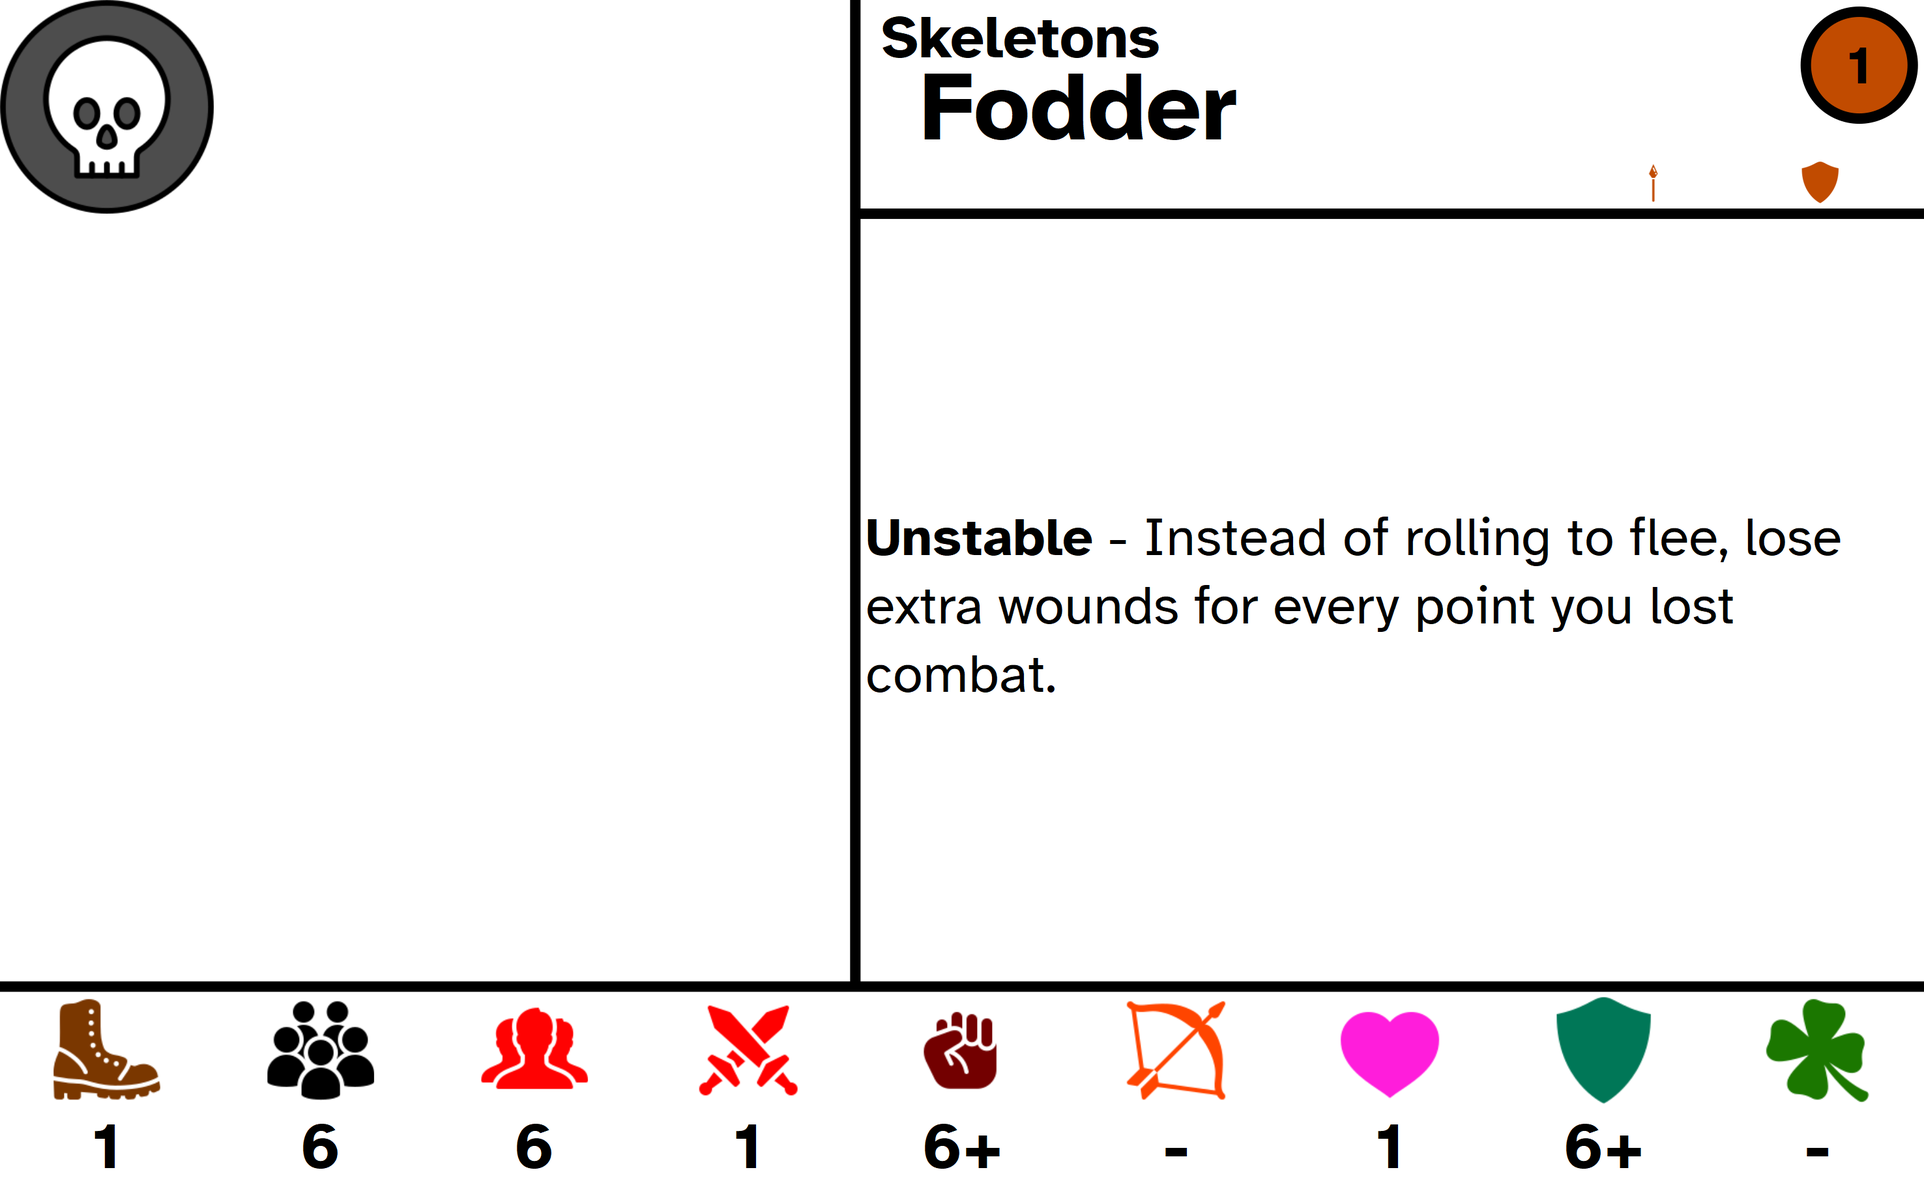
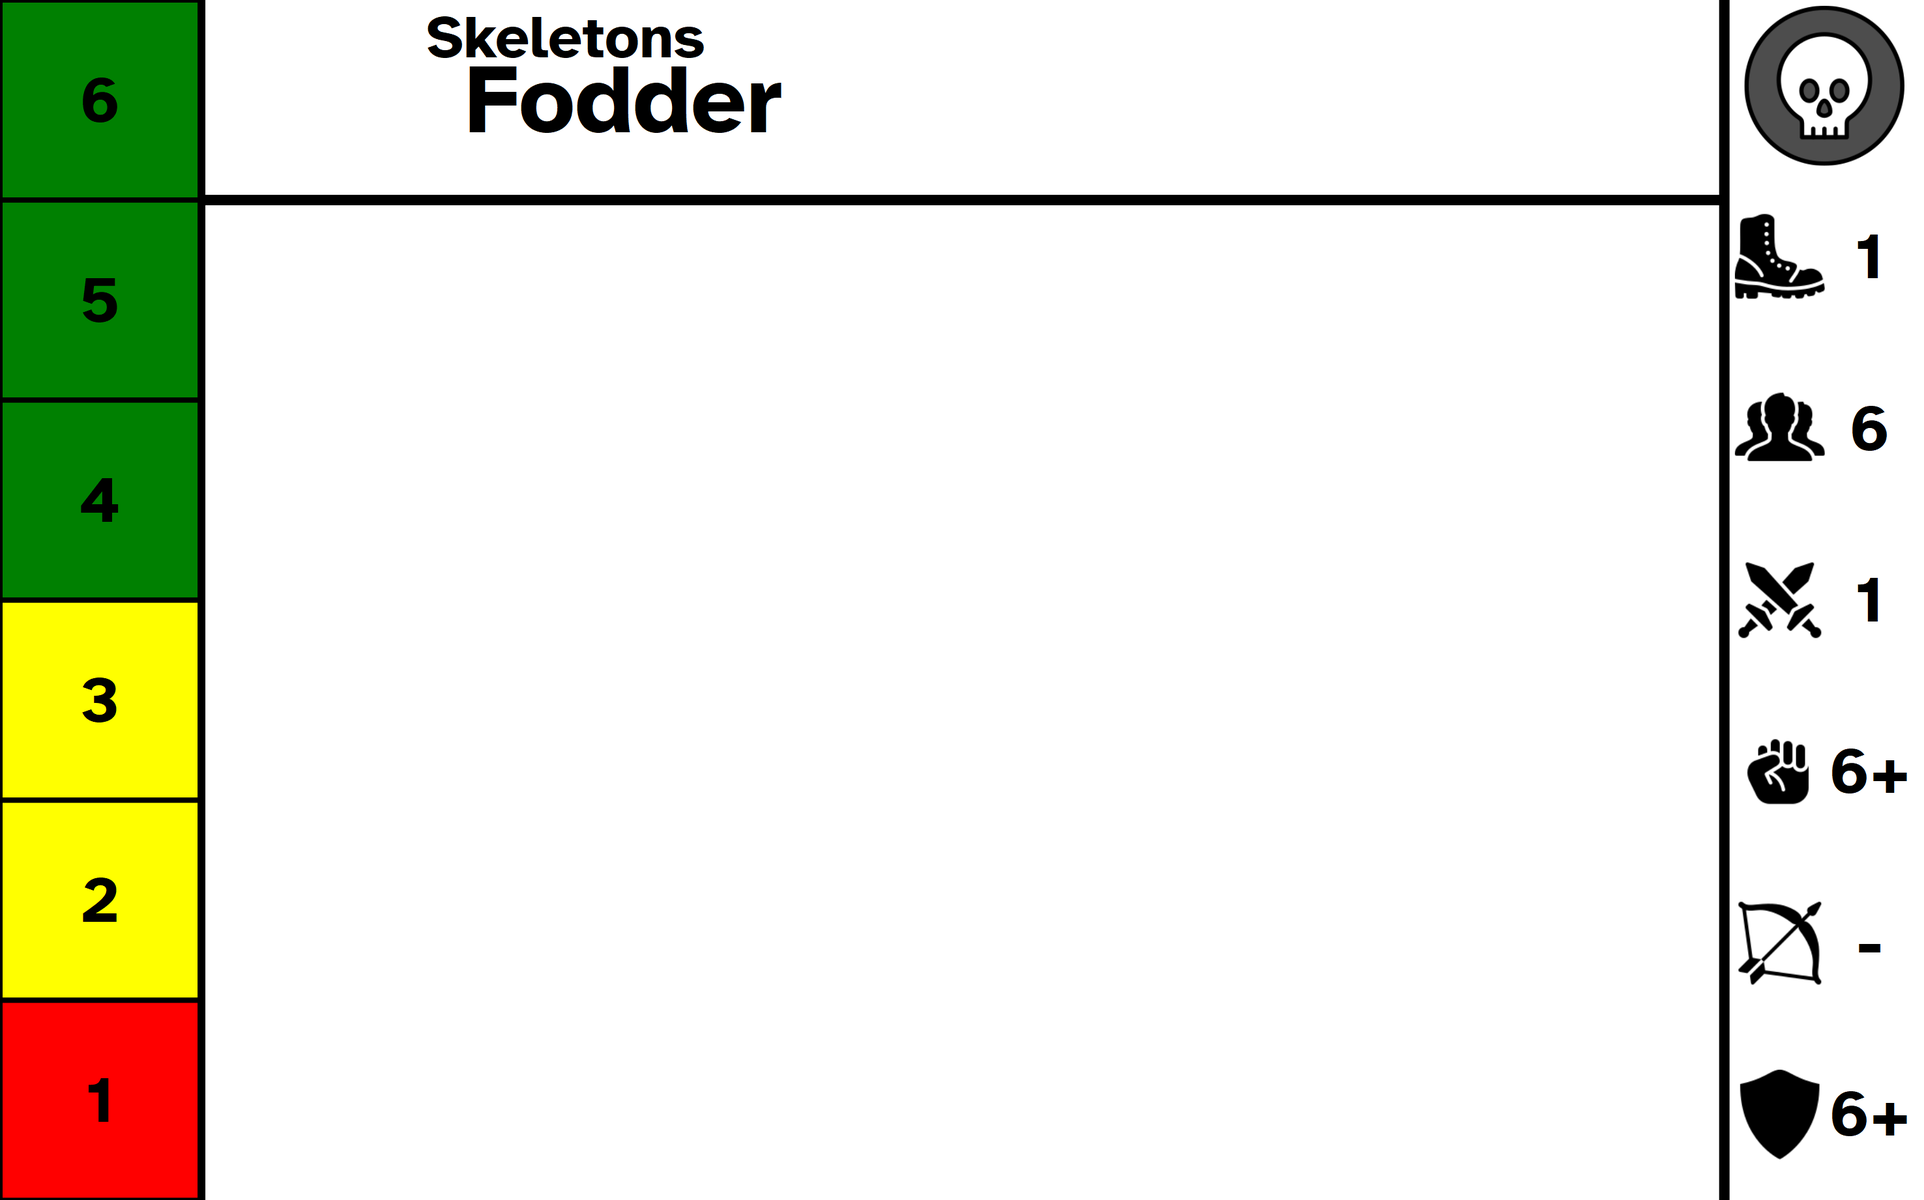
Partial new format

Changed region(s): [[0.0, 0.0, 1.0, 1.0], [0.2182, 0.0, 0.4051, 0.1238]]

diff --git a/card-generator/cardmaker.rb b/card-generator/cardmaker.rb
@@ -4,7 +4,7 @@ require 'squib'
 # Config
 
 FILE_NAME = 'Bannerbeasts Roller - Units.csv'
-MAX_CARD_COUNT = 29
+MAX_CARD_COUNT = 28
 
 MM_TOTAL_CARD_WIDTH = 125 
 MM_TOTAL_CARD_HEIGHT = 78
@@ -31,45 +31,53 @@ POWERS_TEXT = 10 * SCALE
 
 RADIUS = 80 * SCALE
 STROKE = 8 * SCALE
+HALF_STROKE = STROKE / 2
+HP_STROKE = STROKE / 3
 
 COMMON = '#C14B00';
 UNCOMMON = '#737373';
 RARE = '#0019FF';
 
-BAR_BOX_W = CARD_WIDTH / 9
-BAR_BOX_H = BAR_BOX_W
-BAR_Y = FULL_CARD_HEIGHT - (PAD + BAR_BOX_H)
+BAR_BOX_W = CARD_HEIGHT / 6
+BAR_BOX_H = CARD_HEIGHT / 7
+BAR_X = FULL_CARD_WIDTH - (PAD + BAR_BOX_W)
 
-PORTRAIT_HEIGHT = CARD_HEIGHT - BAR_BOX_H
-PORTRAIT_WIDTH = 4 * BAR_BOX_W
+ICON_SIZE = BAR_BOX_W * 0.45
+ICON_X_PAD = BAR_X + STROKE
+ICON_Y_PAD = PAD + ((BAR_BOX_H - ICON_SIZE) / 2)
 
-FACTION_ICON_SIZE = BAR_BOX_H
-FACTION_ICON_ROUNDER = (FACTION_ICON_SIZE * 2) + PAD
+FACTION_ICON_SIZE = BAR_BOX_W * 0.8
+FACTION_ITEM_X_PAD = BAR_X + (BAR_BOX_W * 0.1)
+FACTION_ITEM_Y_PAD = ICON_Y_PAD - ((FACTION_ICON_SIZE - ICON_SIZE) / 2)
 
-ICON_SIZE = BAR_BOX_H / 2
-ICON_X_PAD = PAD + ((BAR_BOX_W - ICON_SIZE) / 2)
+HEALTH_LINE_W = BAR_BOX_W
+UNIT_COUNT_WIDTH = HEALTH_LINE_W / 2
+HEALTH_BAR_PAD = PAD + UNIT_COUNT_WIDTH
+
+
+CONTENT_PAD = PAD + (2 * HEALTH_LINE_W)
 
 FACTION_TEXT_PAD = 20 * SCALE
 UNIT_TEXT_PAD = 50 * SCALE
-TITLE_H = BAR_BOX_H
-FACTION_TEXT_X = PAD + PORTRAIT_WIDTH + FACTION_TEXT_PAD
-UNIT_TEXT_X = PAD + PORTRAIT_WIDTH + UNIT_TEXT_PAD
+TITLE_BAR_H = BAR_BOX_W
+FACTION_TEXT_X = CONTENT_PAD + FACTION_TEXT_PAD
+UNIT_TEXT_X = CONTENT_PAD + UNIT_TEXT_PAD
 
-WEAPON_SIZE = 32 * SCALE
-WEAPON_COUNT = 7
-WEAPONS_X = FULL_CARD_WIDTH - (PAD + (WEAPON_COUNT * WEAPON_SIZE))
-WEAPONS_Y = PAD + TITLE_H - (WEAPON_SIZE + STROKE)
+# WEAPON_SIZE = 32 * SCALE
+# WEAPON_COUNT = 7
+# WEAPONS_X = FULL_CARD_WIDTH - (PAD + (WEAPON_COUNT * WEAPON_SIZE))
+# WEAPONS_Y = PAD + TITLE_H - (WEAPON_SIZE + STROKE)
 
-POWERS_X = PAD + PORTRAIT_WIDTH + STROKE
-POWERS_Y = PAD + STROKE + TITLE_H
-POWERS_W = CARD_WIDTH - POWERS_X
+POWERS_X = CONTENT_PAD + STROKE
+POWERS_Y = PAD + TITLE_BAR_H + STROKE
+POWERS_W = BAR_BOX - POWERS_X
 POWERS_H = BAR_Y - POWERS_Y
 
-COST_SIZE = BAR_BOX_H * 0.5
-HALF_COST = COST_SIZE / 2
-COST_GAP = (TITLE_H/2) - (WEAPON_SIZE + HALF_COST)
-COST_X = FULL_CARD_WIDTH - (PAD + COST_GAP + COST_SIZE)
-COST_Y = PAD + COST_GAP
+# COST_SIZE = BAR_BOX_H * 0.5
+# HALF_COST = COST_SIZE / 2
+# COST_GAP = (TITLE_H/2) - (WEAPON_SIZE + HALF_COST)
+# COST_X = FULL_CARD_WIDTH - (PAD + COST_GAP + COST_SIZE)
+# COST_Y = PAD + COST_GAP
 
 # Main
 puts "Start";
@@ -84,7 +92,6 @@ factions = data['Faction Icon'].map {|t| t != nil && t != '.png' ? './assets/fac
 melees = data['Melee Hit'].map {|t| t != nil && t != '-' ? t.to_s + '+' : '-'}
 ranges = data['Ranged Hit'].map {|t| t != nil && t != '-' ? t.to_s + '+' : '-'}
 blocks = data['Block'].map {|t| t != nil && t != '-' ? t.to_s + '+' : '-'}
-evasions = data['Evasion'].map {|t| t != nil && t != '-' ? t.to_s + '+' : '-'}
 
 spears = data['Spears'].map {|t| t != nil ? './assets/weapons/' + t.to_s + '/spear.png' : ''}
 axes = data['Axes'].map {|t| t != nil ? './assets/weapons/' + t.to_s + '/axe.png' : ''}
@@ -98,99 +105,78 @@ powers = data['Powers'].map {|t| t != nil ? t : ''}
 Squib::Deck.new(cards: MAX_CARD_COUNT, width: FULL_CARD_WIDTH, height: FULL_CARD_HEIGHT) do
   background color: 'white'
 
-  line x1: PAD + PORTRAIT_WIDTH, x2: PAD + PORTRAIT_WIDTH, y1: 0, y2: BAR_Y, stroke_width: STROKE, stroke_color: 'black'
-  line x1: 0, x2: FULL_CARD_WIDTH, y1: BAR_Y, y2: BAR_Y, stroke_width: STROKE, stroke_color: 'black'
-  line x1: PAD + PORTRAIT_WIDTH, x2: FULL_CARD_WIDTH, y1: PAD + TITLE_H, y2:  PAD + TITLE_H, stroke_width: STROKE, stroke_color: 'black'
+  line x1: BAR_X, x2: BAR_X, y1: 0, y2: FULL_CARD_HEIGHT, stroke_width: STROKE, stroke_color: 'black'
+  line x1: HEALTH_LINE_W, x2: HEALTH_LINE_W, y1: 0, y2: FULL_CARD_HEIGHT, stroke_width: STROKE, stroke_color: 'black'
+  line x1: HEALTH_LINE_W, x2: BAR_X, y1: TITLE_BAR_H, y2: TITLE_BAR_H, stroke_width: STROKE, stroke_color: 'black'
 
-  png file: factions, x: PAD, y: PAD, width: FACTION_ICON_SIZE, height: FACTION_ICON_SIZE
+  data['N1'][0...MAX_CARD_COUNT].each_with_index do |n1, index|
+    unit_height = FULL_CARD_HEIGHT / n1
+    hp = data['HP'][index] || 1
+    hp_height = unit_height / hp
 
-  faction_text_arrays = text str: data['Faction'], color: 'black', x: FACTION_TEXT_X, y: PAD, height: TITLE_H / 3, align: 'left', valign: 'top', font_size: FACTION_TEXT, font: 'Atkinson Hyperlegible Bold'   
-  unit_text_arrays = text str: data['Name'], color: 'black', x: UNIT_TEXT_X, y: PAD, height: TITLE_H, align: 'left', valign: 'middle', font_size: UNIT_TEXT, font: 'Atkinson Hyperlegible Bold'   
+    n1.times do |i|
+      
+      y_position = i * unit_height
+      text_width = hp > 1 ? UNIT_COUNT_WIDTH : HEALTH_LINE_W
 
-  png file: spears, x: WEAPONS_X + (0 * WEAPON_SIZE), y: WEAPONS_Y, width: WEAPON_SIZE, height: WEAPON_SIZE
-  png file: axes, x: WEAPONS_X + (1 * WEAPON_SIZE), y: WEAPONS_Y, width: WEAPON_SIZE, height: WEAPON_SIZE
-  png file: clubs, x: WEAPONS_X + (2 * WEAPON_SIZE), y: WEAPONS_Y, width: WEAPON_SIZE, height: WEAPON_SIZE
-  png file: offhand, x: WEAPONS_X + (3 * WEAPON_SIZE), y: WEAPONS_Y, width: WEAPON_SIZE, height: WEAPON_SIZE
-  png file: shields, x: WEAPONS_X + (4 * WEAPON_SIZE), y: WEAPONS_Y, width: WEAPON_SIZE, height: WEAPON_SIZE
-  png file: ranged, x: WEAPONS_X + (5 * WEAPON_SIZE), y: WEAPONS_Y, width: WEAPON_SIZE, height: WEAPON_SIZE
+      strength = (n1 - i) * 100 / n1
+      if strength <= 25
+        colour = 'red'
+      elsif strength <= 50
+        colour = 'yellow'
+      else
+        colour = 'green'
+      end
+      rect x: 0, width: HEALTH_LINE_W, y: y_position, height: unit_height, stroke_width: HALF_STROKE, stroke_color: 'black', fill_color: colour, range: index
 
-  circle range: t1_range, x: COST_X + COST_SIZE/2, y: COST_Y + COST_SIZE/2, radius: COST_SIZE/2, stroke_width: STROKE, stroke_color: 'black', fill_color: COMMON
-  circle range: t2_range, x: COST_X + COST_SIZE/2, y: COST_Y + COST_SIZE/2, radius: COST_SIZE/2, stroke_width: STROKE, stroke_color: 'black', fill_color: UNCOMMON
-  text str: data['C1'], color: 'black', x: COST_X, y: COST_Y, width: COST_SIZE, height: COST_SIZE, align: 'center', valign: 'middle', font_size: POWERS_TEXT, font: 'Atkinson Hyperlegible Bold'
+      text str: (n1 - i).to_s, color: 'black', x: PAD, y: y_position, width: text_width, height: unit_height, align: 'center', valign: 'middle', font_size: BAR_TEXT, font: 'Atkinson Hyperlegible Bold', range: index
+
+      if hp > 1
+        hp.times do |j|          
+          hp_y_position = y_position + (j * hp_height)
+          if j > 0
+            line x1: HEALTH_BAR_PAD, x2: HEALTH_LINE_W, y1: hp_y_position, y2: hp_y_position,stroke_width: HP_STROKE, stroke_color: 'black', range: index, dash: HP_STROKE.to_s + " " + HP_STROKE.to_s
+          end
+          text str: (hp - j).to_s, color: 'black', x: HEALTH_BAR_PAD, y: hp_y_position, width: text_width, height: hp_height, align: 'center', valign: 'middle', font_size: BAR_TEXT, font: 'Atkinson Hyperlegible', range: index
+        end
+      end
+    end
+  end
+
+  text str: data['Faction'], color: 'black', x: FACTION_TEXT_X, y: PAD, height: TITLE_BAR_H / 3, align: 'left', valign: 'top', font_size: FACTION_TEXT, font: 'Atkinson Hyperlegible Bold'   
+  text str: data['Name'], color: 'black', x: UNIT_TEXT_X, y: PAD, height: TITLE_BAR_H, align: 'left', valign: 'middle', font_size: UNIT_TEXT, font: 'Atkinson Hyperlegible Bold'   
+
+  # png file: spears, x: WEAPONS_X + (0 * WEAPON_SIZE), y: WEAPONS_Y, width: WEAPON_SIZE, height: WEAPON_SIZE
+  # png file: axes, x: WEAPONS_X + (1 * WEAPON_SIZE), y: WEAPONS_Y, width: WEAPON_SIZE, height: WEAPON_SIZE
+  # png file: clubs, x: WEAPONS_X + (2 * WEAPON_SIZE), y: WEAPONS_Y, width: WEAPON_SIZE, height: WEAPON_SIZE
+  # png file: offhand, x: WEAPONS_X + (3 * WEAPON_SIZE), y: WEAPONS_Y, width: WEAPON_SIZE, height: WEAPON_SIZE
+  # png file: shields, x: WEAPONS_X + (4 * WEAPON_SIZE), y: WEAPONS_Y, width: WEAPON_SIZE, height: WEAPON_SIZE
+  # png file: ranged, x: WEAPONS_X + (5 * WEAPON_SIZE), y: WEAPONS_Y, width: WEAPON_SIZE, height: WEAPON_SIZE
+
+  # circle range: t1_range, x: COST_X + COST_SIZE/2, y: COST_Y + COST_SIZE/2, radius: COST_SIZE/2, stroke_width: STROKE, stroke_color: 'black', fill_color: COMMON
+  # circle range: t2_range, x: COST_X + COST_SIZE/2, y: COST_Y + COST_SIZE/2, radius: COST_SIZE/2, stroke_width: STROKE, stroke_color: 'black', fill_color: UNCOMMON
+  # text str: data['C1'], color: 'black', x: COST_X, y: COST_Y, width: COST_SIZE, height: COST_SIZE, align: 'center', valign: 'middle', font_size: POWERS_TEXT, font: 'Atkinson Hyperlegible Bold'
 
   text str: powers, color: 'black', x: POWERS_X, y: POWERS_Y, width: POWERS_W, height: POWERS_H, align: 'left', valign: 'middle', font_size: POWERS_TEXT, font: 'Atkinson Hyperlegible', markup: true
 
-  png file: './assets/coloured/move.png', x: ICON_X_PAD + (0 * BAR_BOX_W), y: BAR_Y + STROKE, width: ICON_SIZE, height: ICON_SIZE
-  png file: './assets/coloured/count.png', x: ICON_X_PAD + (1 * BAR_BOX_W), y: BAR_Y + STROKE, width: ICON_SIZE, height: ICON_SIZE
-  png file: './assets/coloured/rank.png', x: ICON_X_PAD + (2 * BAR_BOX_W), y: BAR_Y + STROKE, width: ICON_SIZE, height: ICON_SIZE
-  png file: './assets/coloured/attacks.png', x: ICON_X_PAD + (3 * BAR_BOX_W), y: BAR_Y + STROKE, width: ICON_SIZE, height: ICON_SIZE
-  png file: './assets/coloured/melee.png', x: ICON_X_PAD + (4 * BAR_BOX_W), y: BAR_Y + STROKE, width: ICON_SIZE, height: ICON_SIZE
-  png file: './assets/coloured/ranged.png', x: ICON_X_PAD + (5 * BAR_BOX_W), y: BAR_Y + STROKE, width: ICON_SIZE, height: ICON_SIZE
-  png file: './assets/coloured/heart.png', x: ICON_X_PAD + (6 * BAR_BOX_W), y: BAR_Y + STROKE, width: ICON_SIZE, height: ICON_SIZE
-  png file: './assets/coloured/block.png', x: ICON_X_PAD + (7 * BAR_BOX_W), y: BAR_Y + STROKE, width: ICON_SIZE, height: ICON_SIZE
-  png file: './assets/coloured/dodge.png', x: ICON_X_PAD + (8 * BAR_BOX_W), y: BAR_Y + STROKE, width: ICON_SIZE, height: ICON_SIZE
+  png file: factions, x: FACTION_ITEM_X_PAD, y: FACTION_ITEM_Y_PAD, width: FACTION_ICON_SIZE, height: FACTION_ICON_SIZE
+  
+  png file: './assets/black/move.png', x: ICON_X_PAD, y: ICON_Y_PAD + (1 * BAR_BOX_H), width: ICON_SIZE, height: ICON_SIZE
+  png file: './assets/black/rank.png', x: ICON_X_PAD, y: ICON_Y_PAD + (2 * BAR_BOX_H), width: ICON_SIZE, height: ICON_SIZE
+  png file: './assets/black/attacks.png', x: ICON_X_PAD, y: ICON_Y_PAD + (3 * BAR_BOX_H), width: ICON_SIZE, height: ICON_SIZE
+  png file: './assets/black/melee.png', x: ICON_X_PAD, y: ICON_Y_PAD + (4 * BAR_BOX_H), width: ICON_SIZE, height: ICON_SIZE
+  png file: './assets/black/ranged.png', x: ICON_X_PAD, y: ICON_Y_PAD + (5 * BAR_BOX_H), width: ICON_SIZE, height: ICON_SIZE
+  png file: './assets/black/block.png', x: ICON_X_PAD, y: ICON_Y_PAD + (6 * BAR_BOX_H), width: ICON_SIZE, height: ICON_SIZE
 
-  text str: data['Movement'], color: 'black', x: ICON_X_PAD + (0 * BAR_BOX_W), y: BAR_Y + ICON_SIZE, width: ICON_SIZE, height: ICON_SIZE, align: 'center', valign: 'middle', font_size: BAR_TEXT, font: 'Atkinson Hyperlegible Bold'  
-  text str: data['N1'], color: 'black', x: ICON_X_PAD + (1 * BAR_BOX_W), y: BAR_Y + ICON_SIZE, width: ICON_SIZE, height: ICON_SIZE, align: 'center', valign: 'middle', font_size: BAR_TEXT, font: 'Atkinson Hyperlegible Bold'  
-  text str: data['Front Line'], color: 'black', x: ICON_X_PAD + (2 * BAR_BOX_W), y: BAR_Y + ICON_SIZE, width: ICON_SIZE, height: ICON_SIZE, align: 'center', valign: 'middle', font_size: BAR_TEXT, font: 'Atkinson Hyperlegible Bold'  
-  text str: data['Attacks'], color: 'black', x: ICON_X_PAD + (3 * BAR_BOX_W), y: BAR_Y + ICON_SIZE, width: ICON_SIZE, height: ICON_SIZE, align: 'center', valign: 'middle', font_size: BAR_TEXT, font: 'Atkinson Hyperlegible Bold'  
-  text str: melees, color: 'black', x: ICON_X_PAD + (4 * BAR_BOX_W), y: BAR_Y + ICON_SIZE, width: ICON_SIZE, height: ICON_SIZE, align: 'center', valign: 'middle', font_size: BAR_TEXT, font: 'Atkinson Hyperlegible Bold'  
-  text str: ranges, color: 'black', x: ICON_X_PAD + (5 * BAR_BOX_W), y: BAR_Y + ICON_SIZE, width: ICON_SIZE, height: ICON_SIZE, align: 'center', valign: 'middle', font_size: BAR_TEXT, font: 'Atkinson Hyperlegible Bold'  
-  text str: data['HP'], color: 'black', x: ICON_X_PAD + (6 * BAR_BOX_W), y: BAR_Y + ICON_SIZE, width: ICON_SIZE, height: ICON_SIZE, align: 'center', valign: 'middle', font_size: BAR_TEXT, font: 'Atkinson Hyperlegible Bold'  
-  text str: blocks, color: 'black', x: ICON_X_PAD + (7 * BAR_BOX_W), y: BAR_Y + ICON_SIZE, width: ICON_SIZE, height: ICON_SIZE, align: 'center', valign: 'middle', font_size: BAR_TEXT, font: 'Atkinson Hyperlegible Bold'  
-  text str: evasions, color: 'black', x: ICON_X_PAD + (8 * BAR_BOX_W), y: BAR_Y + ICON_SIZE, width: ICON_SIZE, height: ICON_SIZE, align: 'center', valign: 'middle', font_size: BAR_TEXT, font: 'Atkinson Hyperlegible Bold'  
+  text str: data['Movement'], color: 'black', x: ICON_X_PAD + ICON_SIZE, y: ICON_Y_PAD + (1 * BAR_BOX_H), width: ICON_SIZE, height: ICON_SIZE, align: 'center', valign: 'middle', font_size: BAR_TEXT, font: 'Atkinson Hyperlegible Bold'  
+  text str: data['Front Line'], color: 'black', x: ICON_X_PAD + ICON_SIZE, y: ICON_Y_PAD + (2 * BAR_BOX_H), width: ICON_SIZE, height: ICON_SIZE, align: 'center', valign: 'middle', font_size: BAR_TEXT, font: 'Atkinson Hyperlegible Bold'  
+  text str: data['Attacks'], color: 'black', x: ICON_X_PAD + ICON_SIZE, y: ICON_Y_PAD + (3 * BAR_BOX_H), width: ICON_SIZE, height: ICON_SIZE, align: 'center', valign: 'middle', font_size: BAR_TEXT, font: 'Atkinson Hyperlegible Bold'  
+  text str: melees, color: 'black', x: ICON_X_PAD + ICON_SIZE, y: ICON_Y_PAD + (4 * BAR_BOX_H), width: ICON_SIZE, height: ICON_SIZE, align: 'center', valign: 'middle', font_size: BAR_TEXT, font: 'Atkinson Hyperlegible Bold'  
+  text str: ranges, color: 'black', x: ICON_X_PAD + ICON_SIZE, y: ICON_Y_PAD + (5 * BAR_BOX_H), width: ICON_SIZE, height: ICON_SIZE, align: 'center', valign: 'middle', font_size: BAR_TEXT, font: 'Atkinson Hyperlegible Bold'  
+  text str: blocks, color: 'black', x: ICON_X_PAD + ICON_SIZE, y: ICON_Y_PAD + (6 * BAR_BOX_H), width: ICON_SIZE, height: ICON_SIZE, align: 'center', valign: 'middle', font_size: BAR_TEXT, font: 'Atkinson Hyperlegible Bold'    
 
   save_png dir: '_cards', prefix: data['Unit'], count_format: '', suffix: 1
-  save_sheet dir: '_sprues', rows:6, cols: 5, suffix: 1 
-end
-
-Squib::Deck.new(cards: MAX_CARD_COUNT, width: FULL_CARD_WIDTH, height: FULL_CARD_HEIGHT) do
-  background color: 'white'
-
-  line x1: PAD + PORTRAIT_WIDTH, x2: PAD + PORTRAIT_WIDTH, y1: 0, y2: BAR_Y, stroke_width: STROKE, stroke_color: 'black'
-  line x1: 0, x2: FULL_CARD_WIDTH, y1: BAR_Y, y2: BAR_Y, stroke_width: STROKE, stroke_color: 'black'
-  line x1: PAD + PORTRAIT_WIDTH, x2: FULL_CARD_WIDTH, y1: PAD + TITLE_H, y2:  PAD + TITLE_H, stroke_width: STROKE, stroke_color: 'black'
-
-  png file: factions, x: PAD, y: PAD, width: FACTION_ICON_SIZE, height: FACTION_ICON_SIZE
-
-  faction_text_arrays = text str: data['Faction'], color: 'black', x: FACTION_TEXT_X, y: PAD, height: TITLE_H / 3, align: 'left', valign: 'top', font_size: FACTION_TEXT, font: 'Atkinson Hyperlegible Bold'   
-  unit_text_arrays = text str: data['Name'], color: 'black', x: UNIT_TEXT_X, y: PAD, height: TITLE_H, align: 'left', valign: 'middle', font_size: UNIT_TEXT, font: 'Atkinson Hyperlegible Bold'   
-
-  png file: spears, x: WEAPONS_X + (0 * WEAPON_SIZE), y: WEAPONS_Y, width: WEAPON_SIZE, height: WEAPON_SIZE
-  png file: axes, x: WEAPONS_X + (1 * WEAPON_SIZE), y: WEAPONS_Y, width: WEAPON_SIZE, height: WEAPON_SIZE
-  png file: clubs, x: WEAPONS_X + (2 * WEAPON_SIZE), y: WEAPONS_Y, width: WEAPON_SIZE, height: WEAPON_SIZE
-  png file: offhand, x: WEAPONS_X + (3 * WEAPON_SIZE), y: WEAPONS_Y, width: WEAPON_SIZE, height: WEAPON_SIZE
-  png file: shields, x: WEAPONS_X + (4 * WEAPON_SIZE), y: WEAPONS_Y, width: WEAPON_SIZE, height: WEAPON_SIZE
-  png file: ranged, x: WEAPONS_X + (5 * WEAPON_SIZE), y: WEAPONS_Y, width: WEAPON_SIZE, height: WEAPON_SIZE
-
-  circle range: t1_range, x: COST_X + COST_SIZE/2, y: COST_Y + COST_SIZE/2, radius: COST_SIZE/2, stroke_width: STROKE, stroke_color: 'black', fill_color: COMMON
-  circle range: t2_range, x: COST_X + COST_SIZE/2, y: COST_Y + COST_SIZE/2, radius: COST_SIZE/2, stroke_width: STROKE, stroke_color: 'black', fill_color: UNCOMMON
-  text str: data['C2'], color: 'black', x: COST_X, y: COST_Y, width: COST_SIZE, height: COST_SIZE, align: 'center', valign: 'middle', font_size: POWERS_TEXT, font: 'Atkinson Hyperlegible Bold'
-
-  text str: powers, color: 'black', x: POWERS_X, y: POWERS_Y, width: POWERS_W, height: POWERS_H, align: 'left', valign: 'middle', font_size: POWERS_TEXT, font: 'Atkinson Hyperlegible', markup: true
-
-  png file: './assets/coloured/move.png', x: ICON_X_PAD + (0 * BAR_BOX_W), y: BAR_Y + STROKE, width: ICON_SIZE, height: ICON_SIZE
-  png file: './assets/coloured/count.png', x: ICON_X_PAD + (1 * BAR_BOX_W), y: BAR_Y + STROKE, width: ICON_SIZE, height: ICON_SIZE
-  png file: './assets/coloured/rank.png', x: ICON_X_PAD + (2 * BAR_BOX_W), y: BAR_Y + STROKE, width: ICON_SIZE, height: ICON_SIZE
-  png file: './assets/coloured/attacks.png', x: ICON_X_PAD + (3 * BAR_BOX_W), y: BAR_Y + STROKE, width: ICON_SIZE, height: ICON_SIZE
-  png file: './assets/coloured/melee.png', x: ICON_X_PAD + (4 * BAR_BOX_W), y: BAR_Y + STROKE, width: ICON_SIZE, height: ICON_SIZE
-  png file: './assets/coloured/ranged.png', x: ICON_X_PAD + (5 * BAR_BOX_W), y: BAR_Y + STROKE, width: ICON_SIZE, height: ICON_SIZE
-  png file: './assets/coloured/heart.png', x: ICON_X_PAD + (6 * BAR_BOX_W), y: BAR_Y + STROKE, width: ICON_SIZE, height: ICON_SIZE
-  png file: './assets/coloured/block.png', x: ICON_X_PAD + (7 * BAR_BOX_W), y: BAR_Y + STROKE, width: ICON_SIZE, height: ICON_SIZE
-  png file: './assets/coloured/dodge.png', x: ICON_X_PAD + (8 * BAR_BOX_W), y: BAR_Y + STROKE, width: ICON_SIZE, height: ICON_SIZE
-
-  text str: data['Movement'], color: 'black', x: ICON_X_PAD + (0 * BAR_BOX_W), y: BAR_Y + ICON_SIZE, width: ICON_SIZE, height: ICON_SIZE, align: 'center', valign: 'middle', font_size: BAR_TEXT, font: 'Atkinson Hyperlegible Bold'  
-  text str: data['N2'], color: 'black', x: ICON_X_PAD + (1 * BAR_BOX_W), y: BAR_Y + ICON_SIZE, width: ICON_SIZE, height: ICON_SIZE, align: 'center', valign: 'middle', font_size: BAR_TEXT, font: 'Atkinson Hyperlegible Bold'  
-  text str: data['Front Line'], color: 'black', x: ICON_X_PAD + (2 * BAR_BOX_W), y: BAR_Y + ICON_SIZE, width: ICON_SIZE, height: ICON_SIZE, align: 'center', valign: 'middle', font_size: BAR_TEXT, font: 'Atkinson Hyperlegible Bold'  
-  text str: data['Attacks'], color: 'black', x: ICON_X_PAD + (3 * BAR_BOX_W), y: BAR_Y + ICON_SIZE, width: ICON_SIZE, height: ICON_SIZE, align: 'center', valign: 'middle', font_size: BAR_TEXT, font: 'Atkinson Hyperlegible Bold'  
-  text str: melees, color: 'black', x: ICON_X_PAD + (4 * BAR_BOX_W), y: BAR_Y + ICON_SIZE, width: ICON_SIZE, height: ICON_SIZE, align: 'center', valign: 'middle', font_size: BAR_TEXT, font: 'Atkinson Hyperlegible Bold'  
-  text str: ranges, color: 'black', x: ICON_X_PAD + (5 * BAR_BOX_W), y: BAR_Y + ICON_SIZE, width: ICON_SIZE, height: ICON_SIZE, align: 'center', valign: 'middle', font_size: BAR_TEXT, font: 'Atkinson Hyperlegible Bold'  
-  text str: data['HP'], color: 'black', x: ICON_X_PAD + (6 * BAR_BOX_W), y: BAR_Y + ICON_SIZE, width: ICON_SIZE, height: ICON_SIZE, align: 'center', valign: 'middle', font_size: BAR_TEXT, font: 'Atkinson Hyperlegible Bold'  
-  text str: blocks, color: 'black', x: ICON_X_PAD + (7 * BAR_BOX_W), y: BAR_Y + ICON_SIZE, width: ICON_SIZE, height: ICON_SIZE, align: 'center', valign: 'middle', font_size: BAR_TEXT, font: 'Atkinson Hyperlegible Bold'  
-  text str: evasions, color: 'black', x: ICON_X_PAD + (8 * BAR_BOX_W), y: BAR_Y + ICON_SIZE, width: ICON_SIZE, height: ICON_SIZE, align: 'center', valign: 'middle', font_size: BAR_TEXT, font: 'Atkinson Hyperlegible Bold'  
-
-  save_png dir: '_cards', prefix: data['Unit'], count_format: '', suffix: 2 
-  save_sheet dir: '_sprues', rows:6, cols: 5, suffix: 2
+  #save_sheet dir: '_sprues', rows:6, cols: 5, suffix: 1 
 end
 
 puts "Done";
